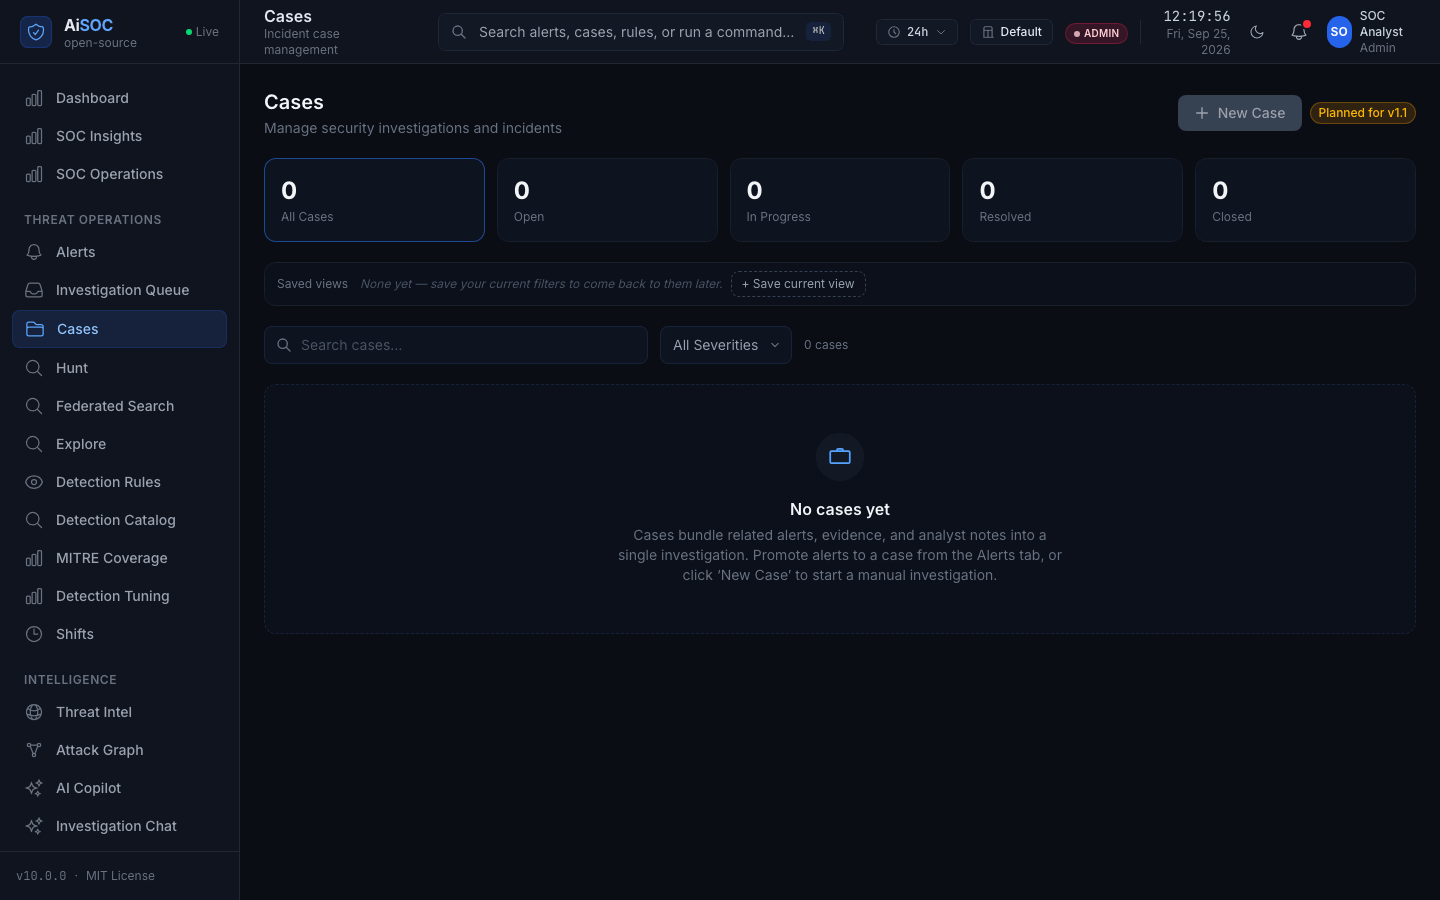
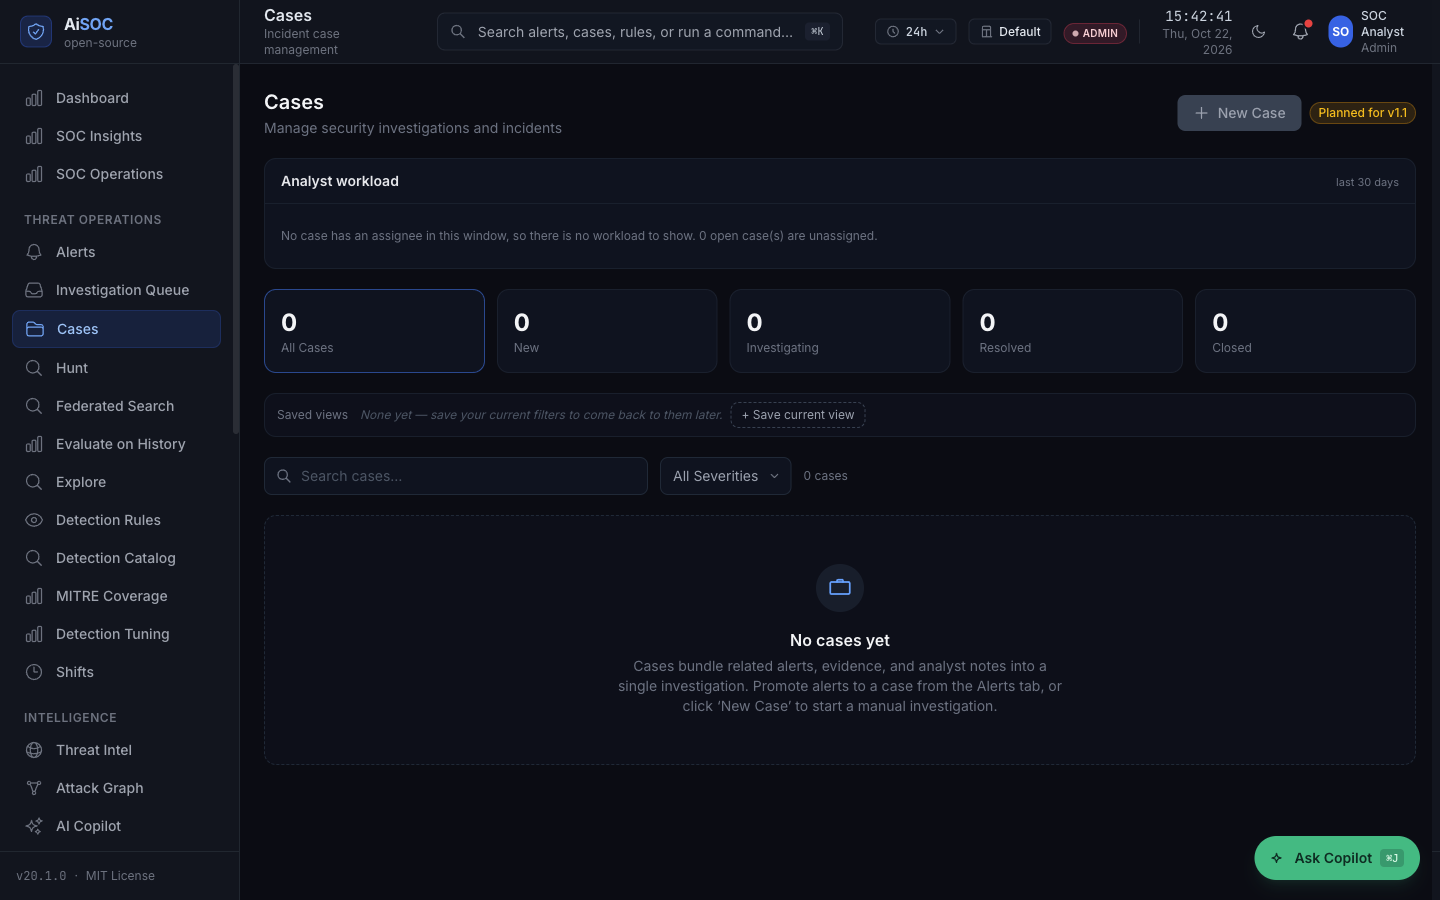
chore(release): v20.1.0 (#1476)
The full surface ladder in one move: VERSION, the console package version,
chart 7.10.0 / appVersion v20.1.0, the README badge, the RELEASES.md TL;DR,
regenerated llms.txt and llms-full.txt, and a scoreboard row re-graded by
the checker rather than relabelled (substrate accuracy 0.97 at 40d97bee).

CHANGELOG [Unreleased] promotes to [20.1.0] - 2026-10-22 with a fresh empty
[Unreleased] left behind. No BREAKING entries: the window is fixes,
hardening and dependency moves, so a minor is the correct increment.

Channel behaviour, read from release.yml's decision blocks before cutting:
this release moves NEITHER stable channel. Image stable is held on v19
(registry major 19 vs incoming 20); chart stable is held at 7.8.0 by the
appVersion guard (#1469: crossing v19 -> v20 refuses the move and emits a
notice naming chart-channel.yml as the deliberate path).

Every console screenshot is re-captured from this exact tree running the
real CORE stack: make up, the five sample scenarios pushed through the real
ingest pipeline, 1,754 CISA KEV rows fetched live, and the bundled local
model's actual triage verdicts on screen. The previous set was captured at
v10.0.0 and showed a navigation missing five current surfaces and one that
no longer exists. attack-graph.png alone is left as it was: it is
referenced by nothing and shows a populated graph that needs the full
profile, which this CORE capture session cannot honestly reproduce.

diff --git a/RELEASES.md b/RELEASES.md
@@ -2,7 +2,9 @@
 
 This file mirrors what used to live in the "What's new" section of [`README.md`](README.md). The complete, machine-readable inventory (with file paths, env-var diffs, and per-release test counts) lives in [`CHANGELOG.md`](CHANGELOG.md).
 
-> **TL;DR for first-time visitors:** AiSOC is on `v20.0.0`, released 2026-10-21. **The security-response release: four published advisories, the SSRF guard on every connector egress path, and the dependency queue worked to zero.** Four vulnerability reports were each reproduced against a production-mode stack, fixed, and published as advisories: [GHSA-wwq7-2xvh-qgq6](https://github.com/beenuar/AiSOC/security/advisories/GHSA-wwq7-2xvh-qgq6) (cases GET routes enforced no `cases:read`, so an API key minted with only `alerts:read` could list cases and read their comments, timeline and evidence chain), [GHSA-9mc5-hqgh-j6wf](https://github.com/beenuar/AiSOC/security/advisories/GHSA-9mc5-hqgh-j6wf) (any `cases:write` holder could author a comment the console renders as an unattributed "System note"), [GHSA-898c-wxrw-hx6c](https://github.com/beenuar/AiSOC/security/advisories/GHSA-898c-wxrw-hx6c) (outbound webhooks: registration 500ed against row-level security for every tenant, and destinations were never SSRF-validated), and [GHSA-cq4g-g6wp-4m2w](https://github.com/beenuar/AiSOC/security/advisories/GHSA-cq4g-g6wp-4m2w) (a tenant-controlled connector `base_url` could reach cloud metadata, loopback and internal services from the stateless test route, resource reads and scheduled polls — the guard now sits on every construction path, and the API refuses those destinations before they are stored). **This is the breaking change:** `POST /api/v1/cases/{case_id}/comments` no longer accepts `is_system` in the request body — the server ignores the field rather than refusing the request, so existing clients keep succeeding and only generated SDK request types lose the property; system notes are written by the server itself. Supply-chain pinning tightened in both directions: the semgrep rule packs the scanner ratchet was measured with are vendored into the tree with a rules-digest arm, and the Oct-21 advisory wave (a critical `certifi`, `aiohttp`, `pillow`, the MCP SDK, and the npm floors) is cleared across every lockfile — with one recorded, expiring exception where upstream `fastembed` still caps `pillow` below the fixed version in `services/threatintel`. Four connectors (Lacework, Tines, Datadog, PagerDuty) stopped collapsing their vendor's own top severity into `high`, an OpenCTI feed client validated against a live platform joins threat intel, and the LLM gateway image is pinned to the exact version the stack was measured against after upstream deleted the floating tag it referenced. **39 defects were fixed across this release and the two before it** (12 here, 11 in v19.0.0, 16 in v18.0.0). The chart publishes as **`7.9.0`**. Everything below describes v19.0.0 and earlier, which this release does not change.
+> **TL;DR for first-time visitors:** AiSOC is on `v20.1.0`, released 2026-10-22. **The harness-honesty release: the measurements and safety nets around the product were made as truthful as the product itself, and one real data-loss defect in every connector's poll loop is closed.** The data-loss fix is externally contributed ([meshreyy](https://github.com/meshreyy)): ingest reports per-event normalization failures as HTTP 200 with accepted/rejected counts, and the connector scheduler advanced its checkpoint on HTTP success alone — so a partially rejected batch moved the cursor past events that were never stored, permanently and silently. The cursor now advances only when every submitted event was accepted; a rejected page is re-fetched on the next overlapping poll and deduplicated by the sink. The live-agent eval was flattering itself two ways — per-incident `asyncio.run` left the model client on a dead event loop so most incidents silently ran heuristics, and failed incidents were dropped from the sample — it now runs one loop per run, scores failures as **0 with the reason recorded**, and the 0.40 groundedness floor was re-derived under the fixed harness (it holds, now 0.04 below the lowest honest run rather than 0.13 below a flattered one). The weekly chaos store-outage legs grade real behaviour instead of artifacts of their own probe contract, which is also why the API gained unauthenticated **`GET /api/v1/health` and `GET /api/v1/health/ready`** probes (database blocks at 503, cache degrades at 200) — the redis and qdrant legs pass end to end; the postgres leg stays red **by design**, naming the services that do not yet export the store keys the contract reads ([#1446](https://github.com/beenuar/AiSOC/issues/1446) stays open). The chart `stable` channel is now guarded by **both version lines** — v20.0.0 (chart 7.9.0, not a chart major) had carried chart `stable` across an application major while every image `stable` tag correctly held at v19 — and a dispatchable repair workflow exists and was used to roll the channel back to 7.8.0, where it stays until a deliberate promotion; **this release moves neither `stable` channel**. `fastapi` moves to 0.146.0 across all 32 declaration sites and 13 locks in one change, the Oct-22 Dependabot waves are folded, and `@vitest/mocker` 4.1.12 closes CVE-2026-112949/112950 in all three npm lockfiles. **11 defects were fixed in this release, 34 across it and the two before** (11 here, 12 in v20.0.0, 11 in v19.0.0 — counting distinct product or CI defects named in each release's Fixed and Security sections, dependency-version advisories excluded). The chart publishes as **`7.10.0`**. Everything below describes v20.0.0 and earlier, which this release does not change.
+>
+> **Previously:** AiSOC was on `v20.0.0`, released 2026-10-21. **The security-response release: four published advisories, the SSRF guard on every connector egress path, and the dependency queue worked to zero.** Four vulnerability reports were each reproduced against a production-mode stack, fixed, and published as advisories: [GHSA-wwq7-2xvh-qgq6](https://github.com/beenuar/AiSOC/security/advisories/GHSA-wwq7-2xvh-qgq6) (cases GET routes enforced no `cases:read`, so an API key minted with only `alerts:read` could list cases and read their comments, timeline and evidence chain), [GHSA-9mc5-hqgh-j6wf](https://github.com/beenuar/AiSOC/security/advisories/GHSA-9mc5-hqgh-j6wf) (any `cases:write` holder could author a comment the console renders as an unattributed "System note"), [GHSA-898c-wxrw-hx6c](https://github.com/beenuar/AiSOC/security/advisories/GHSA-898c-wxrw-hx6c) (outbound webhooks: registration 500ed against row-level security for every tenant, and destinations were never SSRF-validated), and [GHSA-cq4g-g6wp-4m2w](https://github.com/beenuar/AiSOC/security/advisories/GHSA-cq4g-g6wp-4m2w) (a tenant-controlled connector `base_url` could reach cloud metadata, loopback and internal services from the stateless test route, resource reads and scheduled polls — the guard now sits on every construction path, and the API refuses those destinations before they are stored). **This is the breaking change:** `POST /api/v1/cases/{case_id}/comments` no longer accepts `is_system` in the request body — the server ignores the field rather than refusing the request, so existing clients keep succeeding and only generated SDK request types lose the property; system notes are written by the server itself. Supply-chain pinning tightened in both directions: the semgrep rule packs the scanner ratchet was measured with are vendored into the tree with a rules-digest arm, and the Oct-21 advisory wave (a critical `certifi`, `aiohttp`, `pillow`, the MCP SDK, and the npm floors) is cleared across every lockfile — with one recorded, expiring exception where upstream `fastembed` still caps `pillow` below the fixed version in `services/threatintel`. Four connectors (Lacework, Tines, Datadog, PagerDuty) stopped collapsing their vendor's own top severity into `high`, an OpenCTI feed client validated against a live platform joins threat intel, and the LLM gateway image is pinned to the exact version the stack was measured against after upstream deleted the floating tag it referenced. **39 defects were fixed across this release and the two before it** (12 here, 11 in v19.0.0, 16 in v18.0.0). The chart publishes as **`7.9.0`**. Everything below describes v19.0.0 and earlier, which this release does not change.
 >
 > **Previously:** AiSOC was on `v19.0.0`, released 2026-10-12. **The release that finished the depth plan's analyst, collection and governance phases.** Nineteen workstreams landed as one verified tree. A session now has **one producer and three stores** that cannot disagree about which session an event belongs to; a real security **posture is collected and versioned** so a detection reads the posture that was true when an event happened; behavioural **baselines moved into CORE** as a fusion module. Collection meets an estate the way it emits — an **OTLP logs receiver, a Kafka input** for customer topics, and a **real TAXII 2.1 server** over the tenant IOC store — and a **cold-tier lake query reports a cost estimate and a progress state** instead of timing out silently. The **Helm chart installs CORE** with exactly one scheduler replica leading through a Postgres lease. A playbook can **ask the person who signed in, then their manager, and branch on the signed answer**; AiSOC's own **MCP server speaks streamable HTTP**, authorized and audited per call; a case opens a **war room** that syncs decisions back; a **hunt that finds something becomes a cited report**; the **responder app is an installable build** with real APNs and FCM delivery. Governance closed the 8.1 clauses: **WebAuthn** as a console second factor enforceable per role, an **enforced audit retention window** that leaves the surviving chain verifiable, **axe accessibility** on the case workspace and alert list, and a tenant's **entitlement limit that can refuse work** when the tenant opts in. **This is the breaking change:** `PATCH /api/v1/alerts/{id}` used to answer **200 while silently dropping** any field outside its five writable ones — a success for a write that did not happen — and now answers **422** naming the field and the route that applies it. If you call that endpoint with `disposition`, `severity`, `confidence` or `snoozed_until`, read the BREAKING section before upgrading. **67 defects were fixed across this release and the two before it** (11 here, 16 in v18.0.0, 40 in v17.1.0), including **tenant deletion**, which had been impossible on any database holding audit rows because the audit immutability trigger refused the cascade its own foreign key declares. The chart publishes as **`7.8.0`**. Everything below describes v18.0.0 and earlier, which this release does not change.
 >
@@ -22,7 +24,29 @@ This file mirrors what used to live in the "What's new" section of [`README.md`]
 
 ## What's new
 
-`VERSION` is `20.0.0`. The **v20.0.0** release (2026-10-21) is the
+`VERSION` is `20.1.0`. The **v20.1.0** release (2026-10-22) closes a
+data-loss defect in every connector's poll loop (an externally
+contributed fix: the checkpoint advanced past events ingest rejected,
+and now advances only when every submitted event was accepted), makes
+the measurement harnesses as honest as what they measure (the live-agent
+eval runs one event loop per run and scores failed investigations as 0
+with reasons, with the 0.40 groundedness floor re-derived under the
+fixed harness; the chaos store-outage legs grade real behaviour, with
+the redis and qdrant legs passing end to end and the postgres leg red
+by design on #1446), adds unauthenticated liveness and readiness probes
+to the API (`GET /api/v1/health`, `GET /api/v1/health/ready` — database
+blocks, cache degrades), guards the chart `stable` channel on both
+version lines with a dispatchable repair workflow, and moves `fastapi`
+to 0.146.0 across every declaration site and lock in one change, with
+the Oct-22 Dependabot waves folded and `@vitest/mocker` 4.1.12 closing
+CVE-2026-112949/112950. No breaking changes, and **neither `stable`
+channel moves**. 11 defects were fixed (34 across this release and the
+two before it). See the TL;DR above and the `[20.1.0]` section of
+[`CHANGELOG.md`](CHANGELOG.md) for the full inventory.
+
+### Previously: v20.0.0
+
+The **v20.0.0** release (2026-10-21) is the
 security-response release: four vulnerability reports reproduced,
 fixed and published as advisories (cases read-scope, system-note
 spoofing, webhook RLS + SSRF, and the SSRF guard adopted on every

diff --git a/README.md b/README.md
@@ -6,7 +6,7 @@
 
 **An open-source, self-hostable AI Security Operations Center.** It ingests your security telemetry, detects and correlates threats, investigates them with AI agents whose reasoning is fully auditable, and proposes responses a human approves.
 
-[![License: MIT](https://img.shields.io/badge/License-MIT-22c55e.svg?style=flat-square)](https://opensource.org/licenses/MIT) [![Version](https://img.shields.io/badge/version-20.0.0-f59e0b?style=flat-square)](CHANGELOG.md) [![CI](https://img.shields.io/github/actions/workflow/status/beenuar/AiSOC/ci.yml?branch=main&label=CI&style=flat-square)](https://github.com/beenuar/AiSOC/actions/workflows/ci.yml)
+[![License: MIT](https://img.shields.io/badge/License-MIT-22c55e.svg?style=flat-square)](https://opensource.org/licenses/MIT) [![Version](https://img.shields.io/badge/version-20.1.0-f59e0b?style=flat-square)](CHANGELOG.md) [![CI](https://img.shields.io/github/actions/workflow/status/beenuar/AiSOC/ci.yml?branch=main&label=CI&style=flat-square)](https://github.com/beenuar/AiSOC/actions/workflows/ci.yml)
 [![CodeQL](https://img.shields.io/github/actions/workflow/status/beenuar/AiSOC/codeql.yml?branch=main&label=CodeQL&style=flat-square)](https://github.com/beenuar/AiSOC/actions/workflows/codeql.yml) [![OpenSSF Scorecard](https://api.securityscorecards.dev/projects/github.com/beenuar/AiSOC/badge)](https://securityscorecards.dev/viewer/?uri=github.com/beenuar/AiSOC) [![Technical Guide](https://img.shields.io/badge/Technical%20Guide-26%20page%20PDF-dc2626?style=flat-square)](https://raw.githubusercontent.com/beenuar/AiSOC/main/apps/web/public/papers/aisoc-technical-guide.pdf)
 
 **[Technical Guide (PDF)](https://raw.githubusercontent.com/beenuar/AiSOC/main/apps/web/public/papers/aisoc-technical-guide.pdf)** · [Docs](https://beenuar.github.io/AiSOC/) · [Architecture](docs/architecture/README.md) · [What actually works](docs/audit/REPOSITORY_REALITY.md) · [Discussions](https://github.com/beenuar/AiSOC/discussions)

diff --git a/CHANGELOG.md b/CHANGELOG.md
@@ -7,6 +7,8 @@ and this project adheres to [Semantic Versioning](https://semver.org/spec/v2.0.0
 
 ## [Unreleased]
 
+## [20.1.0] - 2026-10-22
+
 ### Security
 
 - `@vitest/mocker` moves to 4.1.12 in all three npm lockfiles (root
